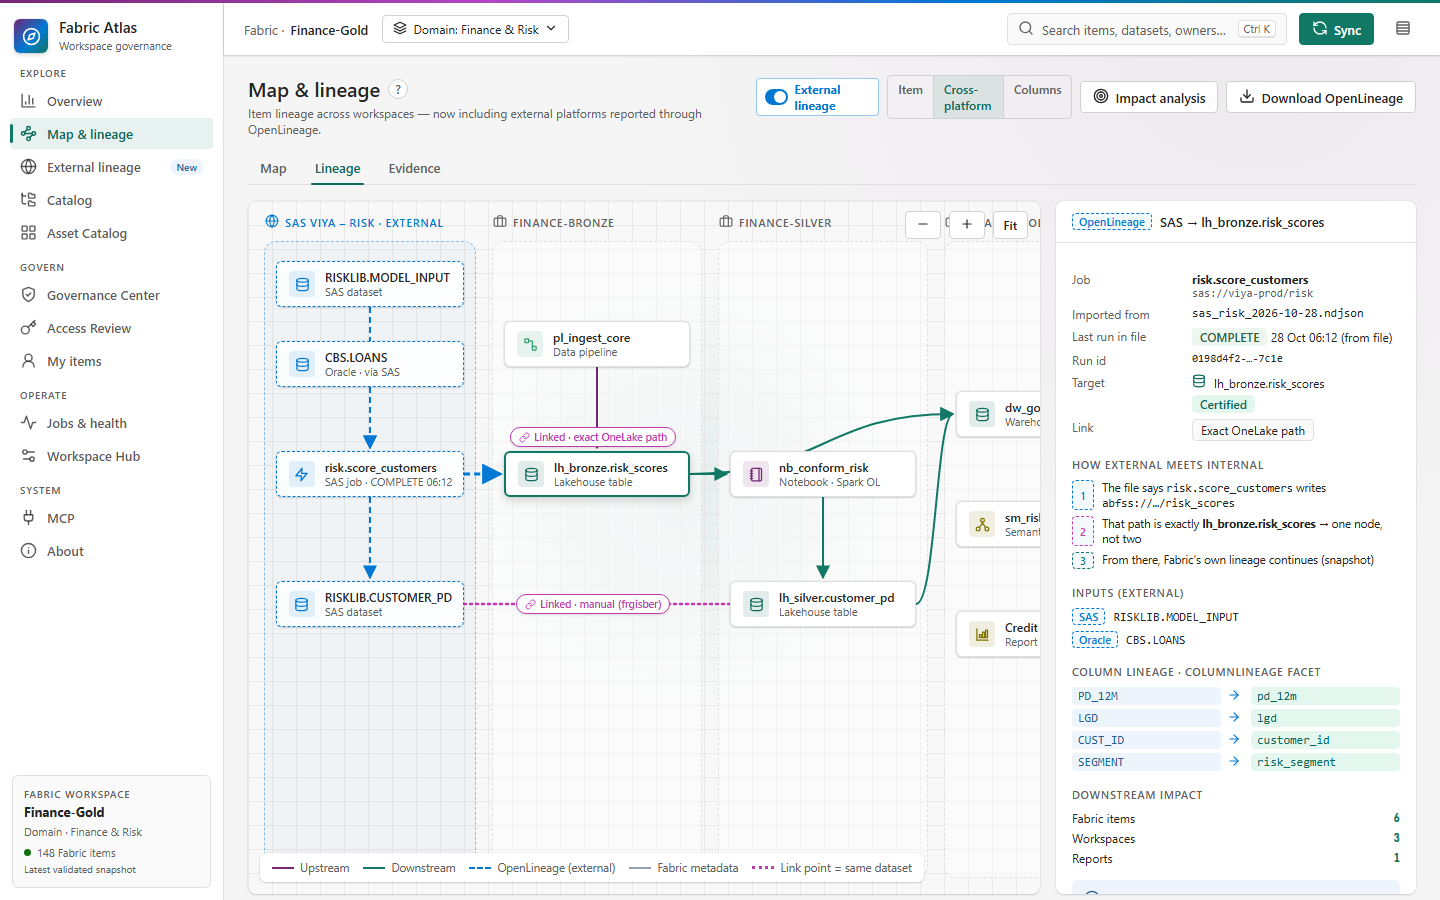
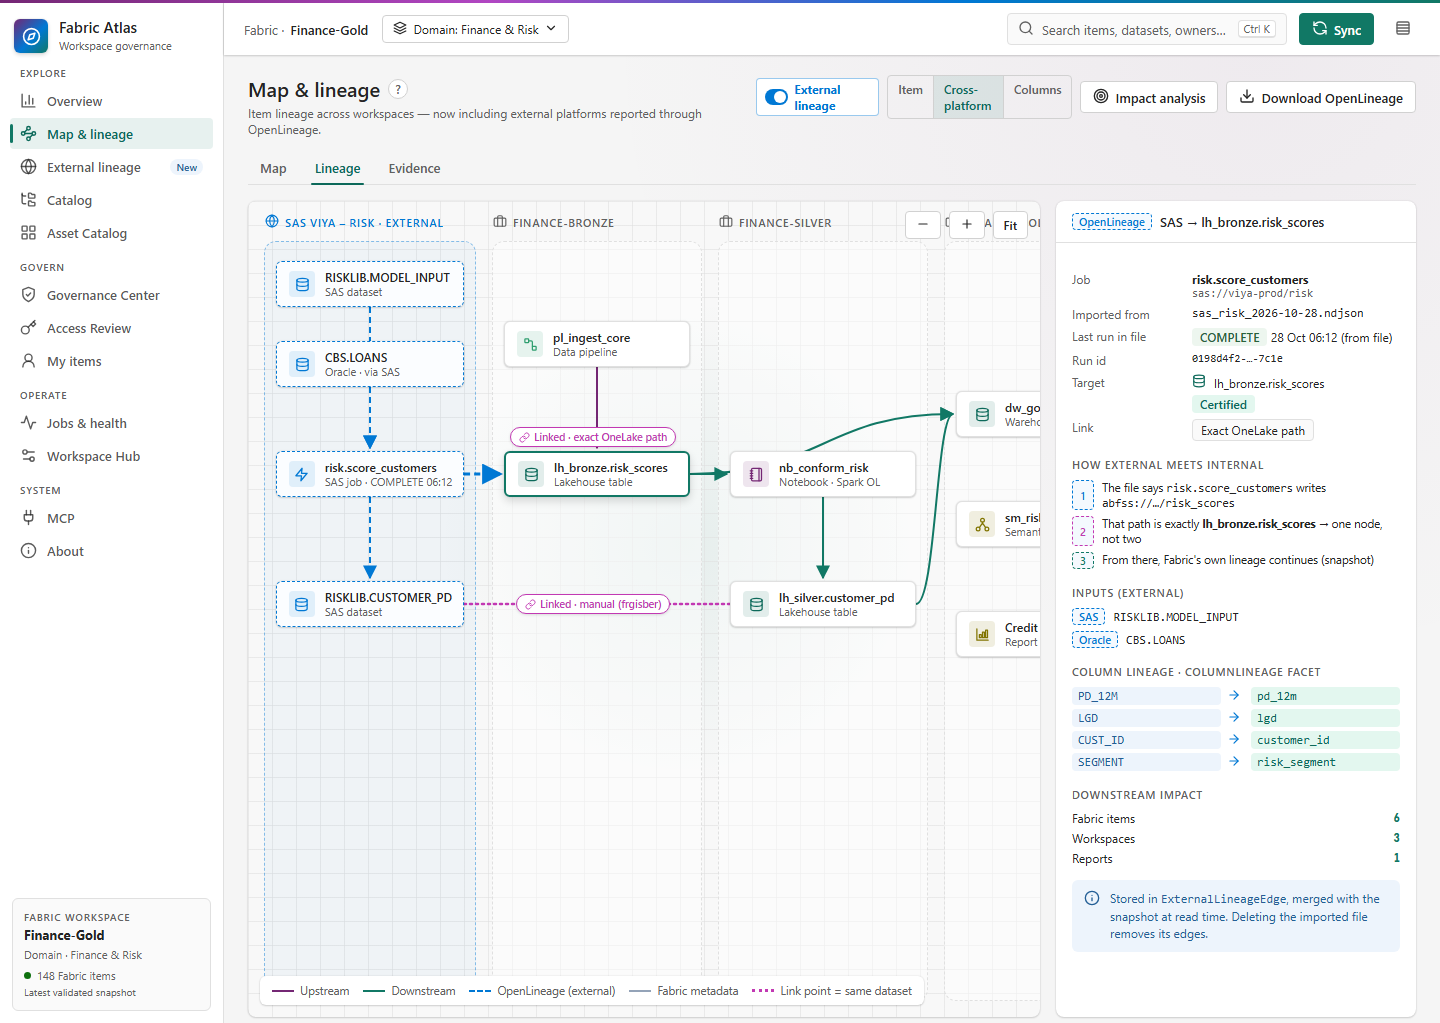
mock(v2.7 external lineage): as-built notes s3/s5, recaptured PNGs
Copilot-Session: e629d3ec-786d-448e-9c22-e8e2cc1d7b80

diff --git a/v2.7/external-lineage/mock.html b/v2.7/external-lineage/mock.html
@@ -292,6 +292,7 @@ tr.sel td{background:rgba(17,120,101,.06)}
         </div>
       </div>
     </div>
+    <div class="note" style="background:var(--w-bg);color:var(--w-fg);margin:14px 0 0"><span data-i="info" data-s="16"></span><div><b>As built (v2.7.0):</b> the existing Map toolbar is kept: no Item / Cross-platform / Columns segment, an <b>External lineage</b> switch sits next to Control relations and is hidden when nothing is imported or the preview overlay is on. All platforms share one <b>External · OpenLineage</b> lane (platforms listed in its header). The legend keeps <i>Atlas snapshot (verified)</i> and adds <i>OpenLineage (external)</i> and <i>Link point = same dataset</i>. On a Fabric item, Change impact shows a dashed <b>External</b> block with counts and dataset names.</div></div>
   </section>
 
   <!-- ============ SCREEN 4 : FILE FORMAT ============ -->
@@ -341,6 +342,7 @@ tr.sel td{background:rgba(17,120,101,.06)}
     <div class="tabs"><span class="tab">Imports <span class="c">3</span></span><span class="tab">Link to Fabric <span class="c">7</span></span><span class="tab">File format</span><span class="tab on">Data model</span></div>    <div class="card" style="position:relative;height:640px;overflow:hidden" id="erd">
       <svg id="erdedges" style="position:absolute;inset:0;width:100%;height:100%;z-index:1"></svg>
     </div>
+    <div class="note" style="background:var(--w-bg);color:var(--w-fg);margin:14px 0 0"><span data-i="info" data-s="16"></span><div><b>As built (v2.7.0):</b> <span class="mono">ExternalLineageEdge</span> also stores <span class="mono">lastRunState</span>, <span class="mono">lastRunTime</span>, <span class="mono">runId</span>, <span class="mono">columnTruncated</span>; <span class="mono">OpenLineageImport</span> stores <span class="mono">namespace</span>, <span class="mono">platform</span>, dataset/edge/to-link counts and <span class="mono">rejectReason</span>; <span class="mono">ExternalDataset</span> stores <span class="mono">platform</span>, <span class="mono">fabricObjectName</span>, <span class="mono">linkedAt</span>, <span class="mono">lastSeenAt</span>. Ids are Rayfin uuids derived from sha-256 of the keys shown.</div></div>
   </section>
 
   </div>
